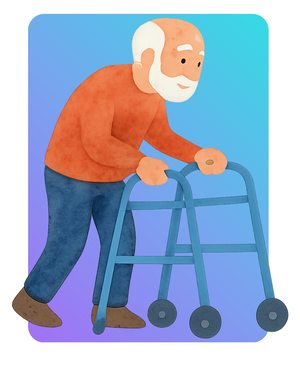
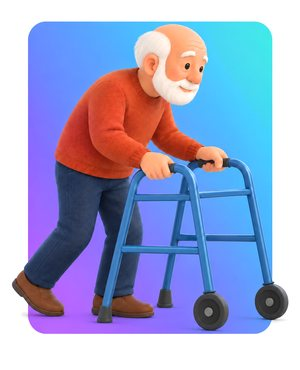
CFS 5: illustrazione corretta; cache delle immagini aggiornata (?v=4, osteoclick-v2) perché i telefoni scarichino la nuova
Claude-Session: https://claude.ai/code/session_01PjG96KevbubiUiRzbd72bR

diff --git a/index.html b/index.html
@@ -298,7 +298,7 @@ const CFS = [
     desc:"Persone i cui problemi medici sono ben controllati. Sono autonome nelle attività della vita quotidiana ma non svolgono attività fisica oltre alla camminata di routine."},
   {id:4, h:740, en:"Vulnerable", it:"Vulnerabili", group:"A",
     desc:"Persone autonome nelle attività della vita quotidiana che presentano però un iniziale rallentamento funzionale. I sintomi delle patologie croniche di cui sono affetti, pur non compromettendo l'indipendenza, tendono a limitare il livello di attività. Riferiscono frequentemente affaticabilità, con ridotta resistenza allo sforzo e difficoltà nello svolgimento di attività più impegnative."},
-  {id:5, h:691, en:"Mildly Frail", it:"Lievemente fragili", group:"B",
+  {id:5, h:690, en:"Mildly Frail", it:"Lievemente fragili", group:"B",
     desc:"Persone che necessitano di aiuto nelle attività strumentali della vita quotidiana: tipicamente sono compromesse attività quali fare la spesa e il camminare fuori casa da soli, la preparazione dei pasti e i lavori domestici. Sono tuttavia indipendenti nelle attività di base della vita quotidiana (igiene personale, vestizione, alimentazione, trasferimenti, uso dei servizi igienici e continenza)."},
   {id:6, h:704, en:"Moderately Frail", it:"Moderatamente fragili", group:"B",
     desc:"Persone che necessitano di assistenza per tutte le attività all'esterno (es. fare la spesa) e per il mantenimento della casa. A domicilio sono parzialmente dipendenti nelle attività della vita quotidiana, possono avere difficoltà nel salire le scale senza aiuto, nel lavarsi e nel vestirsi, pur conservando ancora un certo grado di autonomia."},
@@ -437,7 +437,7 @@ function vDomanda(n){
 /* ---------- schede: pannello a scomparsa dalla home ---------- */
 function schedeHTML(){
   return ["A","B","C"].map(g => `<p class="lbl">${GROUPS[g].label}</p><div class="rows">` +
-    CFS.filter(c => c.group === g).map(c => `<a class="rowlink" href="#scheda-${c.id}"><img class="th" src="img/cfs-${c.id}-thumb.jpg" alt="" decoding="async"><span>${c.en}<small>CFS ${c.id} · ${c.it}</small></span>${CHEV}</a>`).join("") +
+    CFS.filter(c => c.group === g).map(c => `<a class="rowlink" href="#scheda-${c.id}"><img class="th" src="img/cfs-${c.id}-thumb.jpg?v=4" alt="" decoding="async"><span>${c.en}<small>CFS ${c.id} · ${c.it}</small></span>${CHEV}</a>`).join("") +
     `</div>`).join("");
 }
 let reopenSheet = false;   // tornando indietro da una scheda aperta dal pannello, il pannello si riapre
@@ -515,7 +515,7 @@ function vCategoria(id, fromQuiz){
   else path = `${c.id === 9 ? `<p class="small">La classificazione è basata sulla prognosi di malattia e non sul livello di dipendenza funzionale.</p>` : ""}<p class="lbl">Percorso</p><div>${pathC()}</div>`;
   return { bar: fromQuiz ? "Risultato" : "Scheda", act: fromQuiz ? ["Ricomincia", () => go("cfs-1")] : null,
     html: head(c.en, `CFS ${c.id} · ${c.it}`, c.group) +
-      `<div class="pic"><img src="img/cfs-${c.id}.jpg?v=3" width="560" height="${c.h}" alt="${c.en}"></div><p class="note">${c.desc}</p>` + path };
+      `<div class="pic"><img src="img/cfs-${c.id}.jpg?v=4" width="560" height="${c.h}" alt="${c.en}"></div><p class="note">${c.desc}</p>` + path };
 }
 
 /* ---------- percorsi ---------- */
@@ -894,7 +894,7 @@ render();
 // precarica miniature e schede CFS appena la pagina è pronta, così si aprono senza attesa
 const PRELOAD = [];
 function preload(){
-  CFS.forEach(c => [`img/cfs-${c.id}-thumb.jpg`, `img/cfs-${c.id}.jpg?v=3`].forEach(src => {
+  CFS.forEach(c => [`img/cfs-${c.id}-thumb.jpg?v=4`, `img/cfs-${c.id}.jpg?v=4`].forEach(src => {
     const im = new Image(); im.src = src; if(im.decode) im.decode().catch(() => {}); PRELOAD.push(im);
   }));
 }

diff --git a/sw.js b/sw.js
@@ -1,8 +1,8 @@
 // Osteoclick: tiene in cache le immagini per mostrarle subito, anche offline.
 // Le pagine si chiedono prima alla rete (così gli aggiornamenti arrivano subito),
 // le immagini prima alla cache (il ?v= nel nome forza il ricaricamento quando cambiano).
-const CACHE = "osteoclick-v1";
-const IMGS = [1,2,3,4,5,6,7,8,9].flatMap(n => [`img/cfs-${n}-thumb.jpg`, `img/cfs-${n}.jpg?v=3`]);
+const CACHE = "osteoclick-v2";
+const IMGS = [1,2,3,4,5,6,7,8,9].flatMap(n => [`img/cfs-${n}-thumb.jpg?v=4`, `img/cfs-${n}.jpg?v=4`]);
 
 self.addEventListener("install", e => {
   e.waitUntil(caches.open(CACHE).then(c => c.addAll(["./", ...IMGS])).then(() => self.skipWaiting()));
